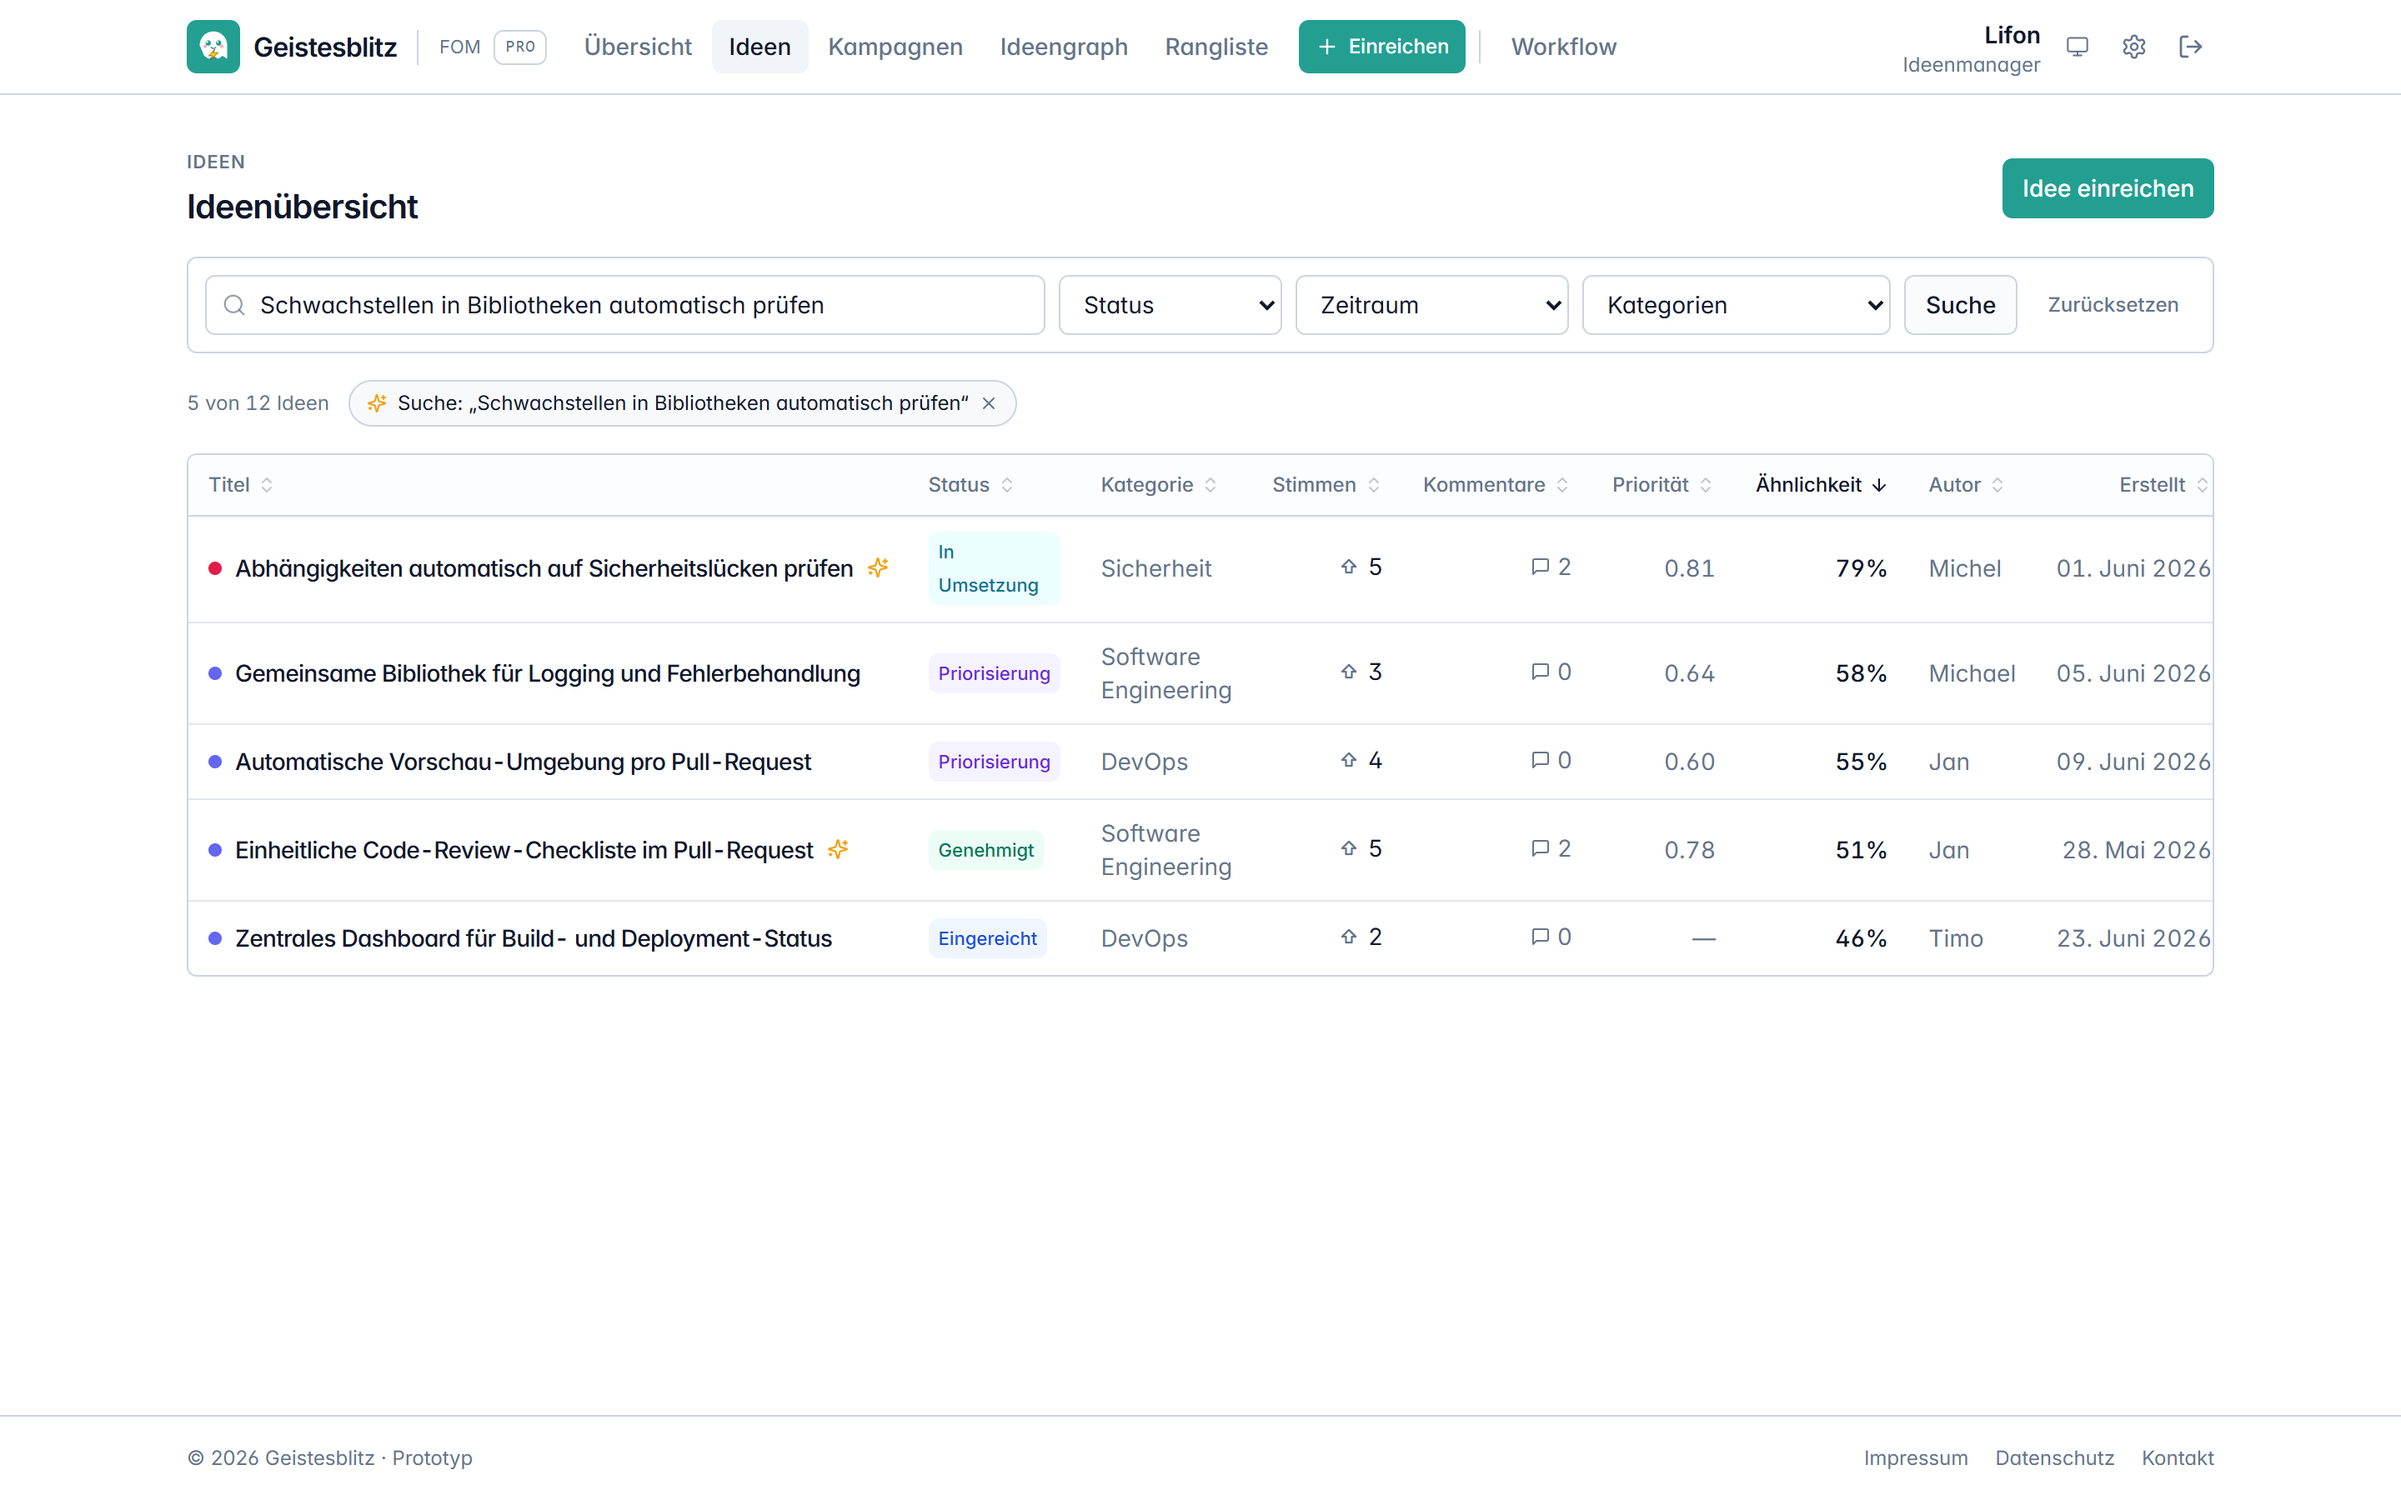
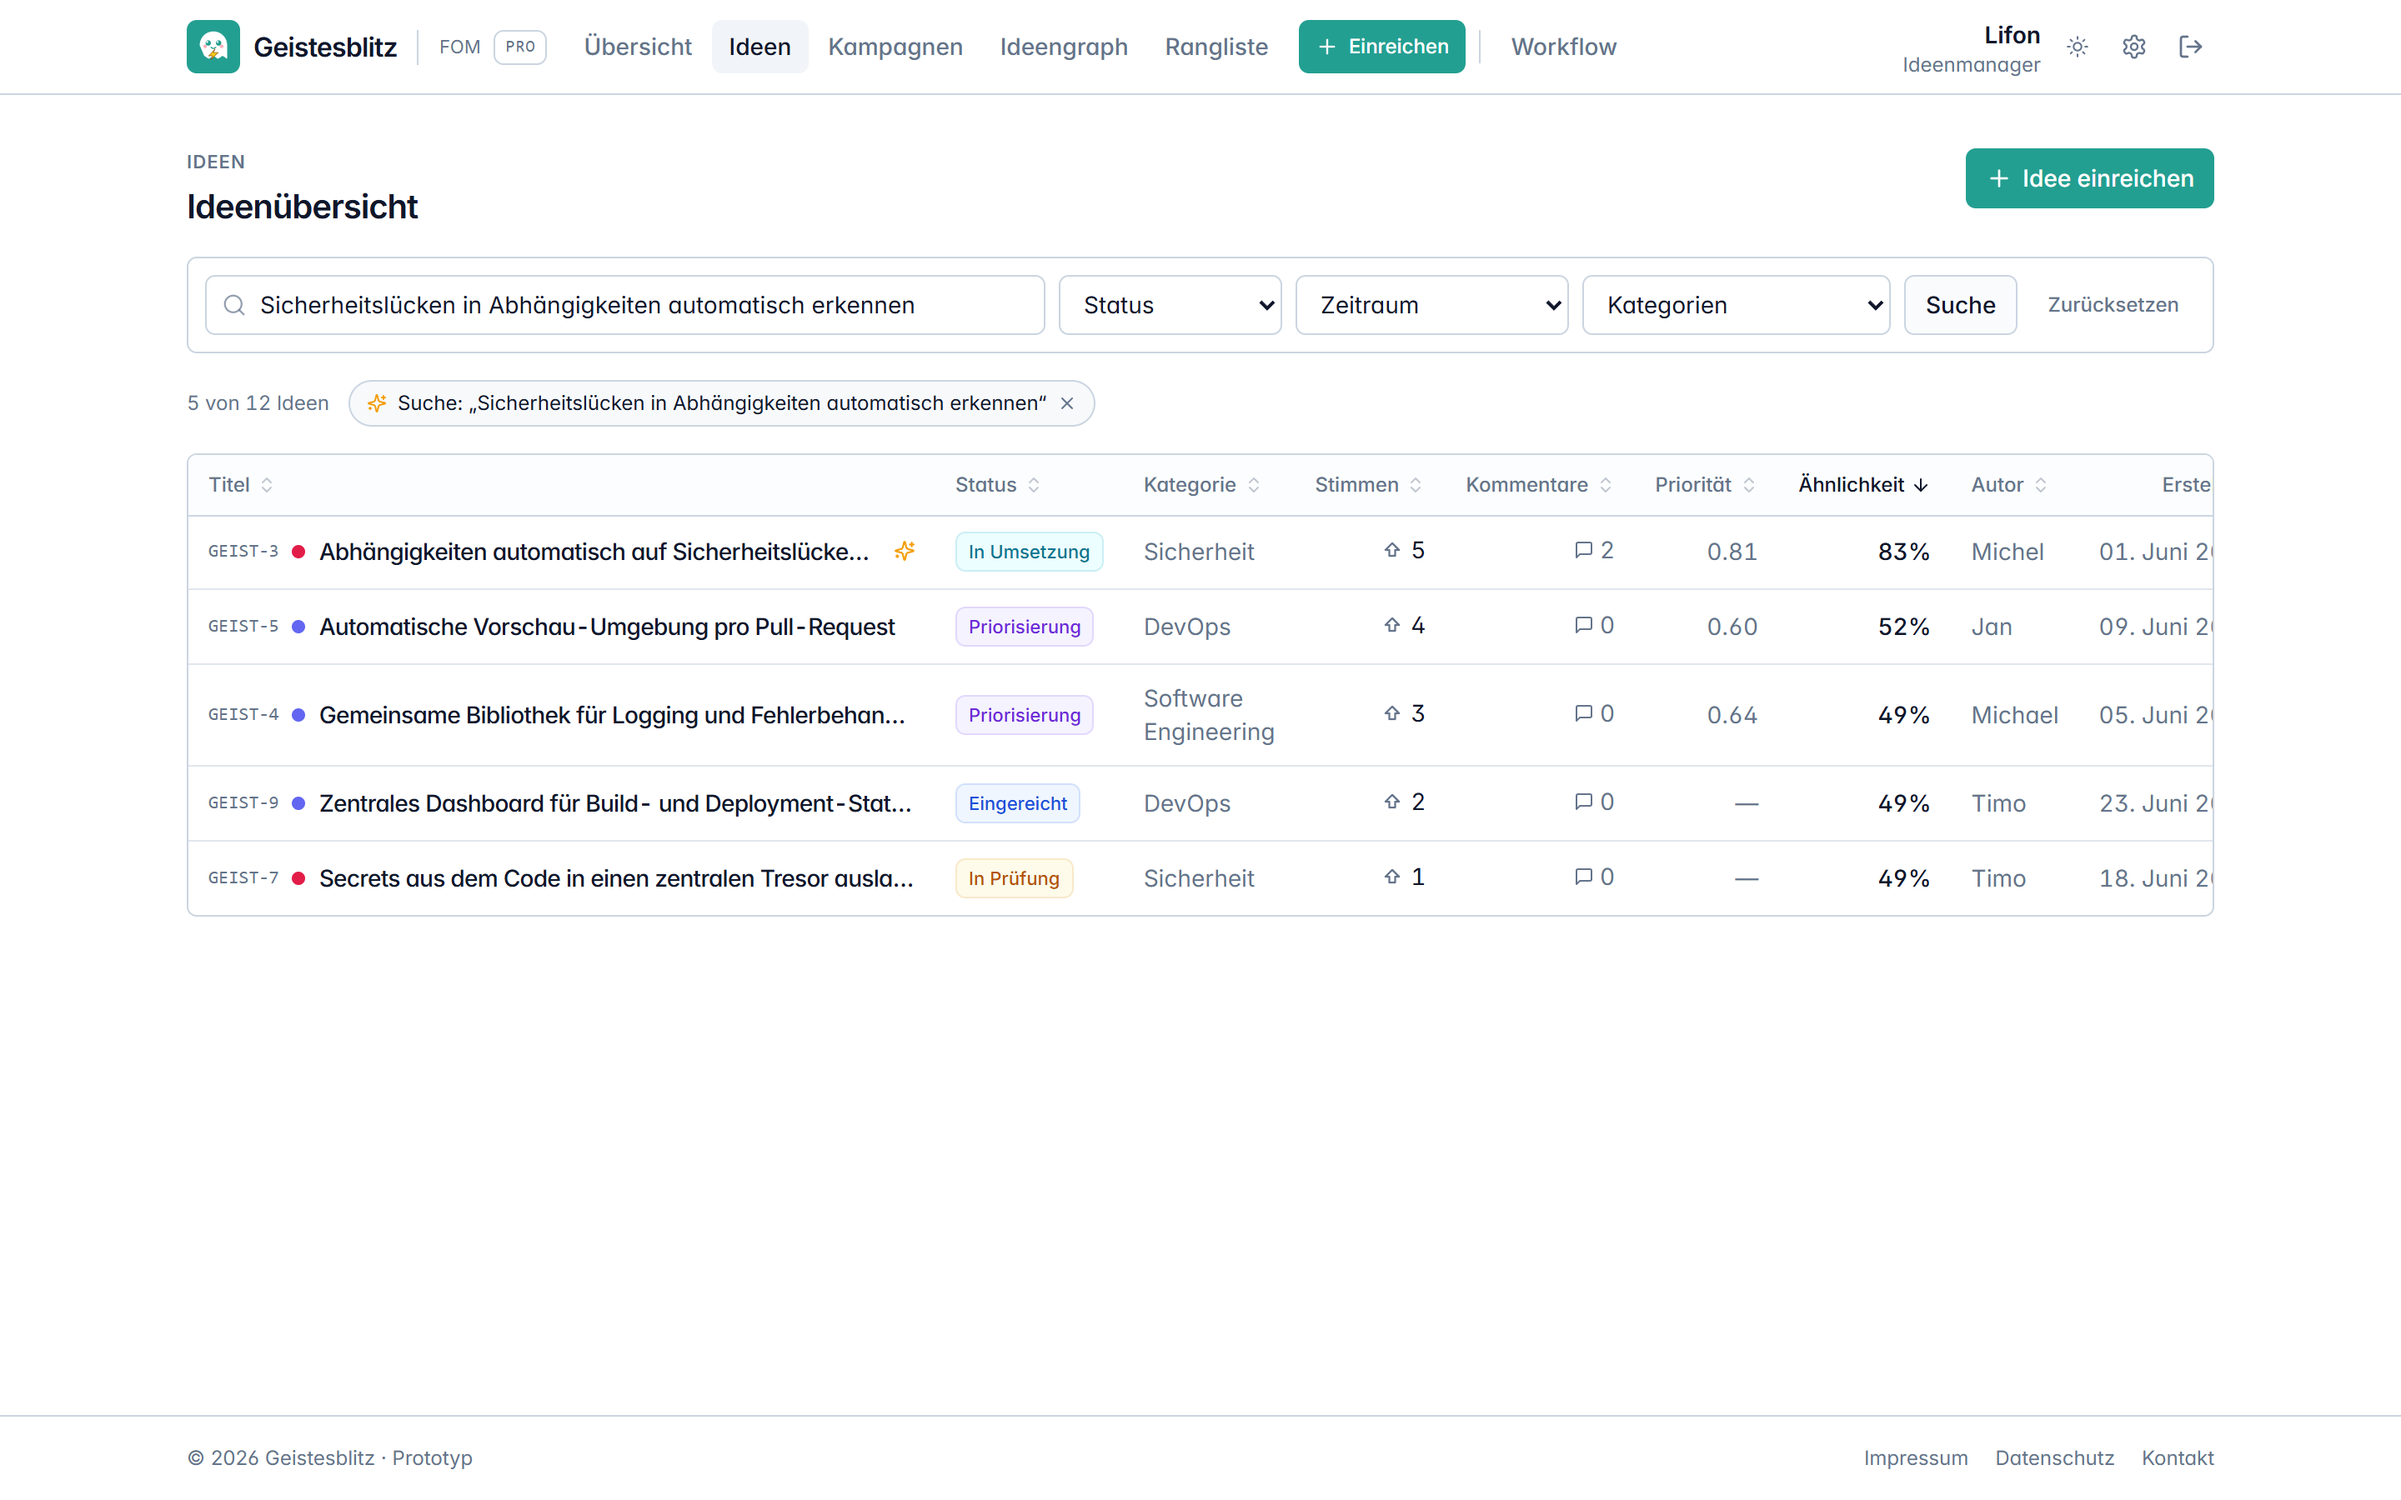
Update Screenshots

diff --git a/frontend/src/pages/IdeaDetail.tsx b/frontend/src/pages/IdeaDetail.tsx
@@ -13,7 +13,7 @@ import { Input } from '@/components/ui/input'
 import { Textarea } from '@/components/ui/textarea'
 import { Card } from '@/components/ui/card'
 import { Badge } from '@/components/ui/badge'
-import { cn } from '@/lib/utils'
+import { cn, simPct } from '@/lib/utils'
 import { ideaRef, jiraPath } from '@/lib/jira'
 import { ArrowUp, ArrowDown, MessageSquare, Send, Wand2, Star, RotateCcw, Gauge, ExternalLink, UserCog, Check } from 'lucide-react'
 import type { ChatMessage, Idea, Stage } from '@/types/api'
@@ -685,11 +685,11 @@ export default function IdeaDetail() {
                   <div className="flex items-start justify-between gap-2">
                     <span className="font-medium text-foreground text-[13px] tracking-tight leading-snug">{s.title}</span>
                     {/* similarity strength */}
-                    <span className="inline-flex items-center gap-1.5 shrink-0 mt-0.5" title={`${(s.similarity * 100).toFixed(0)}% Übereinstimmung`}>
+                    <span className="inline-flex items-center gap-1.5 shrink-0 mt-0.5" title={`${simPct(s.similarity)}% Übereinstimmung`}>
                       <span className="h-1 w-8 rounded-full bg-muted overflow-hidden" aria-hidden>
-                        <span className="block h-full rounded-full bg-primary/70" style={{ width: `${Math.round(s.similarity * 100)}%` }} />
+                        <span className="block h-full rounded-full bg-primary/70" style={{ width: `${simPct(s.similarity)}%` }} />
                       </span>
-                      <span className="font-mono text-[11px] text-muted-foreground tabular-nums">{(s.similarity * 100).toFixed(0)}%</span>
+                      <span className="font-mono text-[11px] text-muted-foreground tabular-nums">{simPct(s.similarity)}%</span>
                     </span>
                   </div>
                   {/* metadata: stage + category */}

diff --git a/frontend/src/pages/IdeaList.tsx b/frontend/src/pages/IdeaList.tsx
@@ -8,7 +8,7 @@ import { Button } from '@/components/ui/button'
 import { Input } from '@/components/ui/input'
 import { Card } from '@/components/ui/card'
 import { Skeleton } from '@/components/ui/skeleton'
-import { cn } from '@/lib/utils'
+import { cn, simPct } from '@/lib/utils'
 import {
   Search, Sparkles, ArrowUp, ArrowDown, ChevronsUpDown,
   MessageSquare, ArrowBigUp, X, Plus,
@@ -185,12 +185,12 @@ export default function IdeaList() {
 
   return (
     <div className="p-4 md:p-8 space-y-4 max-w-7xl mx-auto">
-      <header className="flex flex-wrap items-center justify-between gap-3">
+      <header className="flex flex-wrap items-start justify-between gap-3">
         <div>
           <div className="eyebrow">Ideen</div>
           <h1 className="mt-1 text-xl font-semibold text-foreground tracking-tight">Ideenübersicht</h1>
         </div>
-        <Button asChild><Link to="/submit">+ Idee einreichen</Link></Button>
+        <Button asChild className="gap-1.5"><Link to="/submit"><Plus size={16} strokeWidth={2} /> Idee einreichen</Link></Button>
       </header>
 
       {/* Filter toolbar */}
@@ -323,7 +323,7 @@ export default function IdeaList() {
                 </td>
                 {semantic && (
                   <td className="px-3 py-2.5 text-right tabular-nums font-medium text-foreground">
-                    {((semantic.get(i.id) ?? 0) * 100).toFixed(0)}%
+                    {simPct(semantic.get(i.id))}%
                   </td>
                 )}
                 <td className="px-3 py-2.5 hidden md:table-cell text-muted-foreground truncate max-w-[10rem]">{i.authorName}</td>

diff --git a/frontend/src/pages/SubmitIdea.tsx b/frontend/src/pages/SubmitIdea.tsx
@@ -9,6 +9,7 @@ import { Input } from '@/components/ui/input'
 import { Label } from '@/components/ui/label'
 import { Textarea } from '@/components/ui/textarea'
 import { Card } from '@/components/ui/card'
+import { simPct } from '@/lib/utils'
 import { AlertCircle, ArrowRight } from 'lucide-react'
 
 export default function SubmitIdea() {
@@ -167,7 +168,7 @@ export default function SubmitIdea() {
                         <div className="text-[11px] text-muted-foreground line-clamp-1 mt-0.5">{d.snippet}</div>
                       </div>
                       <span className="font-mono text-[11px] text-amber-700 dark:text-amber-300 tabular-nums shrink-0 mt-0.5">
-                        {(d.similarity * 100).toFixed(0)}%
+                        {simPct(d.similarity)}%
                       </span>
                     </Link>
                   </li>

diff --git a/frontend/src/lib/utils.ts b/frontend/src/lib/utils.ts
@@ -8,3 +8,12 @@ import { twMerge } from 'tailwind-merge'
 export function cn(...inputs: ClassValue[]) {
   return twMerge(clsx(inputs))
 }
+
+/**
+ * A cosine-similarity score (0–1) as a whole-number percent, clamped to 0–100.
+ * The clamp guards the display: a raw score can edge slightly past 1.0, and a
+ * "124 %" match reads as a bug — a similarity is at most a 100 % match.
+ */
+export function simPct(similarity: number | null | undefined): number {
+  return Math.max(0, Math.min(100, Math.round((similarity ?? 0) * 100)))
+}
